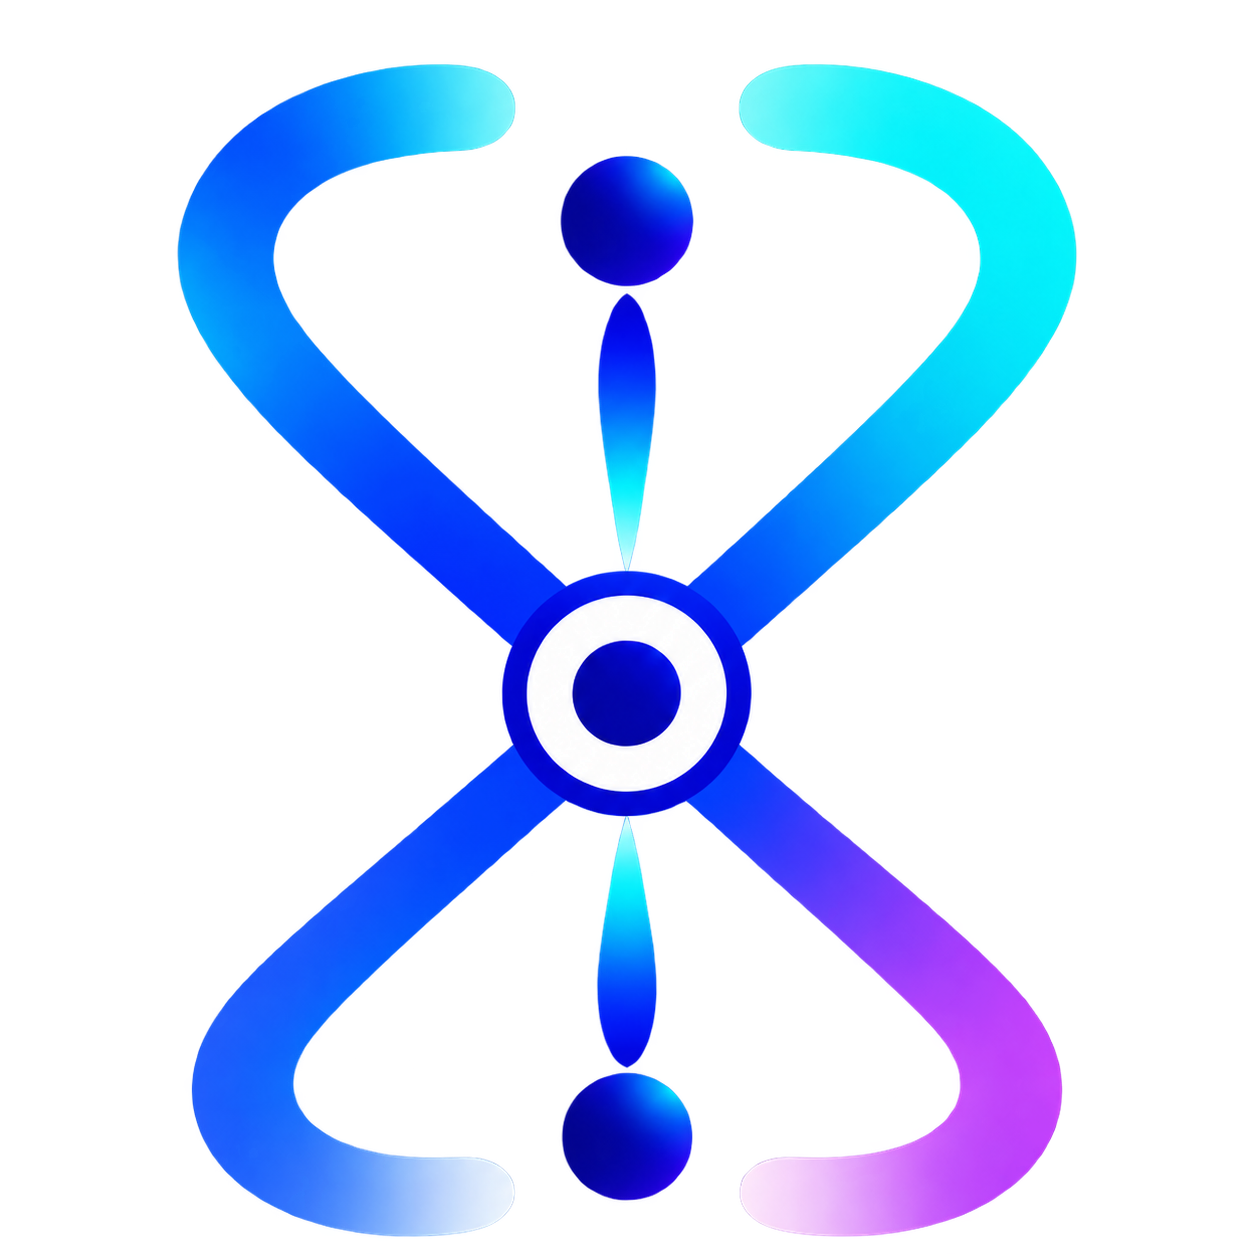
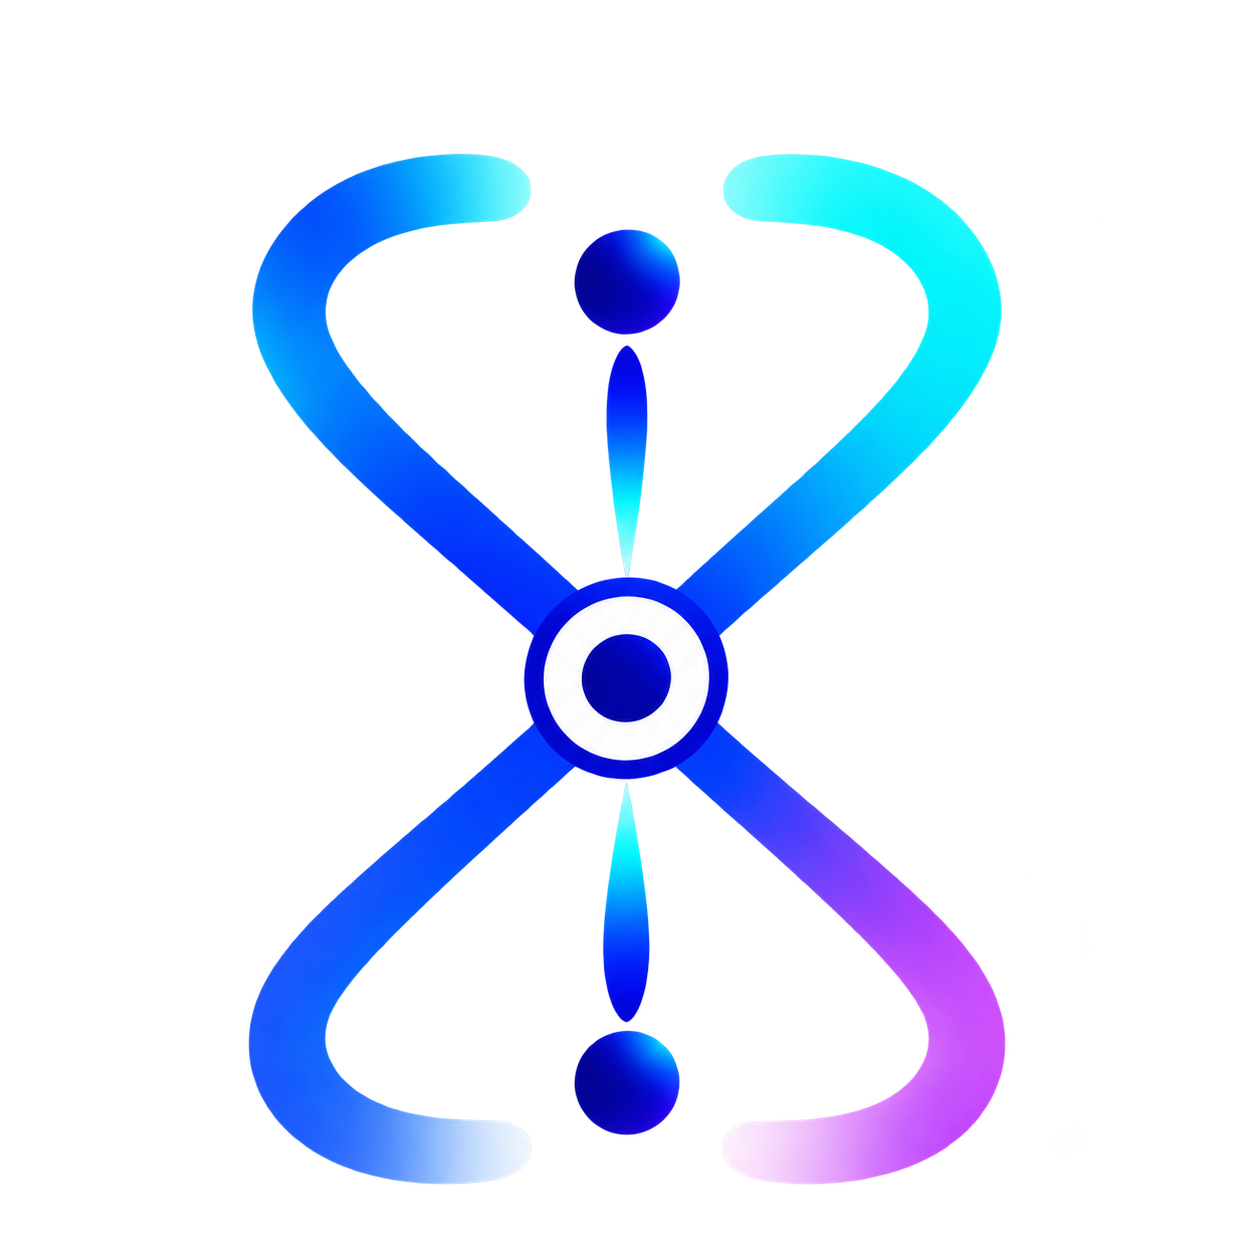
fix(ui): load uploaded Planacity branding at startup

diff --git a/src/planacity/main.py b/src/planacity/main.py
@@ -5,6 +5,7 @@ from importlib.metadata import version
 
 from PySide6.QtWidgets import QApplication
 
+from planacity.ui.icons import image_icon
 from planacity.ui.main_window import MainWindow
 
 
@@ -14,6 +15,7 @@ def main() -> int:
     app.setStyle("Fusion")
     app.setApplicationName("Planacity")
     app.setApplicationVersion(version("planacity"))
+    app.setWindowIcon(image_icon("planacity-mark.png"))
     window = MainWindow()
     window.show()
     return app.exec()

diff --git a/tests/test_shell.py b/tests/test_shell.py
@@ -51,6 +51,7 @@ import planacity.main as entry
 
 class TimedApplication(QApplication):
     def exec(self):
+        assert not self.windowIcon().isNull()
         QTimer.singleShot(0, self.quit)
         return super().exec()
 

diff --git a/CHANGELOG.md b/CHANGELOG.md
@@ -11,6 +11,8 @@ Meaningful user-facing changes are recorded here. Planacity uses Semantic Versio
 
 ### Fixed
 
+- Initialize the Planacity icon at application startup and use the exact
+  maintainer-supplied mark and wordmark assets.
 - Reject ambiguous mapping profiles with duplicate JSON fields, preserving the
   current wizard mapping instead of silently replacing settings such as estimate units.
 
